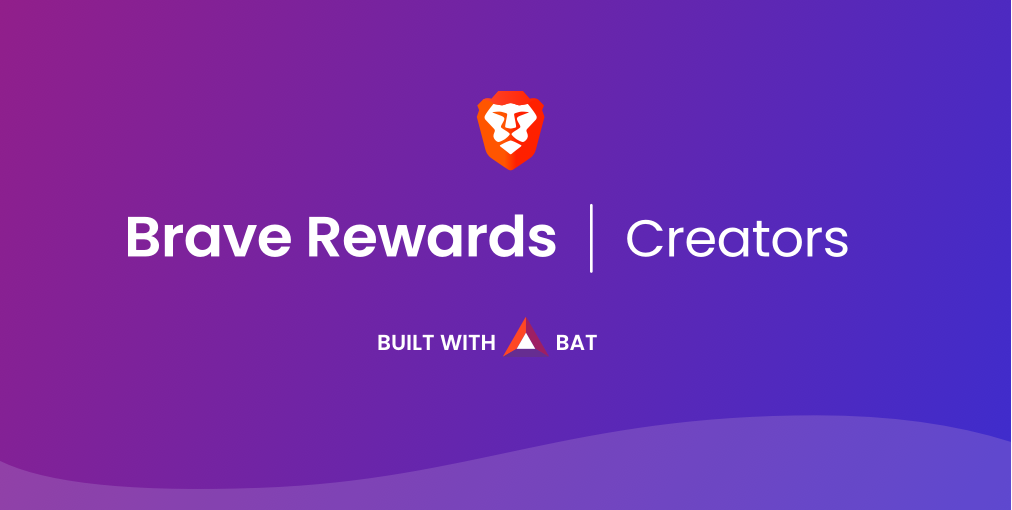
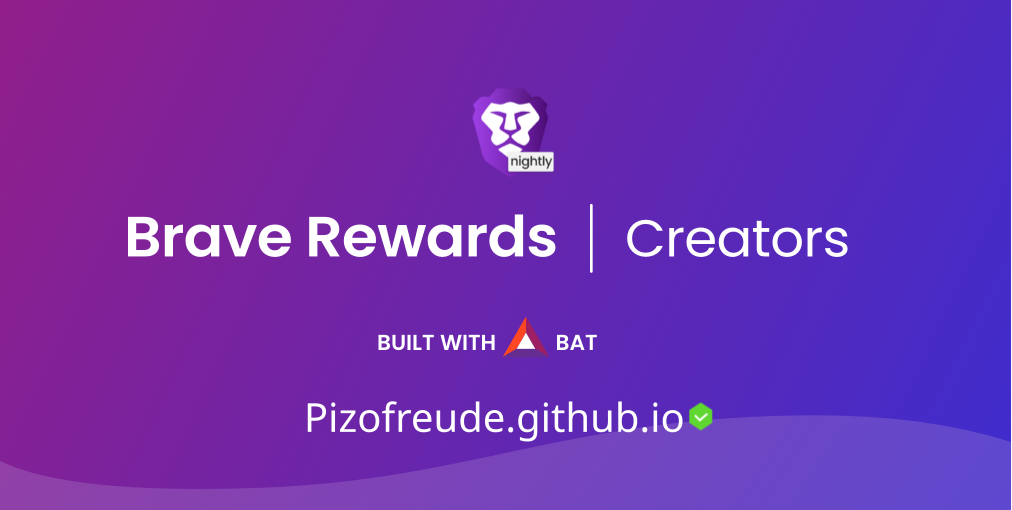
both index.html modified

Changed region(s): [[0.3063, 0.7941, 0.7045, 0.8529], [0.4595, 0.1765, 0.5514, 0.3529]]

diff --git a/index.html b/index.html
@@ -1,7 +1,22 @@
-<html>
+<!DOCTYPE html>
+<html lang="en">
 <head>
-<title>Pizofreude Homepage</title>
-<meta name="viewport" content="width=device-width; initial-scale=1.0; maximum-scale=1.0; user-scalable=0;">
+  <meta charset="utf-8" />
+  <title>Pizofreude Homepage</title>
+  <meta name="viewport" content="width=device-width; initial-scale=1.0; maximum-scale=1.0; user-scalable=0;">
+  <style type="text/css">
+    body {
+      box-sizing: border-box;
+      max-width: 36em;
+      padding: 1em;
+      margin: 0 auto;
+      font-size: 1.2em;
+      line-height: 1.5;
+      font-family: -apple-system,BlinkMacSystemFont,Segoe UI,Helvetica,Arial,sans-serif,Apple Color Emoji,Segoe UI Emoji, monospace;
+    }
+  </style>
+  <link rel="icon" href="./images/brave_nightly_browser_logo_icon_153012.png" />
+
 </head>
 <body style="margin:0px;padding:0px;overflow:hidden">
 <!--  <iframe src="__URL_HERE__" frameborder="0" style="overflow:hidden;overflow-x:hidden;overflow-y:hidden;height:100%;width:100%;position:absolute;top:0px;left:0px;right:0px;bottom:0px" height="100%" width="100%"></iframe> -->

diff --git a/brave/index.html b/brave/index.html
@@ -17,7 +17,7 @@
     </style>
     <link rel="icon" href="./images/brave_nightly_browser_logo_icon_153012.png" />
   </head>
-  <body color-scheme: dark;>
+  <body>
     <h1>Brave : Get rewarded as Github Creator!</h1>
     <p>
       New search engine Brave Nightly offers a new browser with a reward system for content
